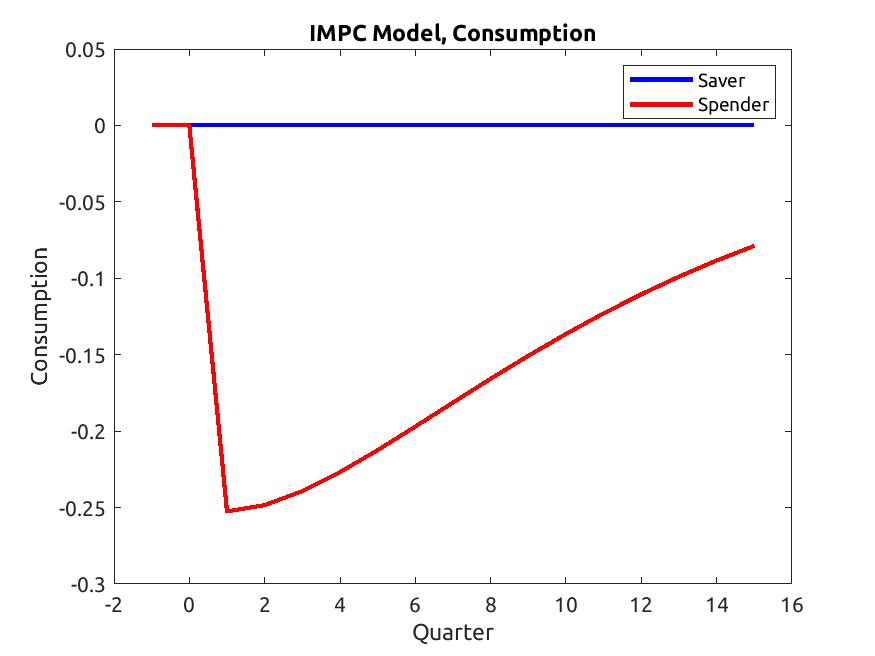
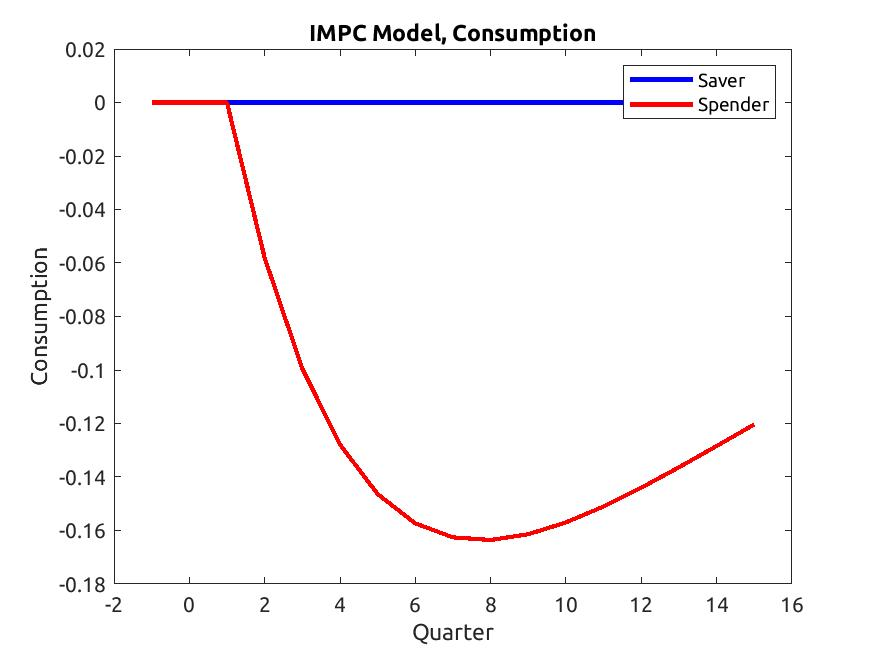
IMPC results parameter change

diff --git a/Code/Dynare/IntertemporalMPCBased/IMPCModel_static.m b/Code/Dynare/IntertemporalMPCBased/IMPCModel_static.m
@@ -32,6 +32,7 @@ residual = zeros( 17, 1);
 %
 
 T41 = 1/params(5);
+T53 = (1-params(4))/4000;
 lhs =y(1);
 rhs =y(11);
 residual(1)= lhs-rhs;
@@ -54,7 +55,7 @@ lhs =y(16);
 rhs =T41*(y(16)+y(2)+y(1)*params(2));
 residual(7)= lhs-rhs;
 lhs =y(17);
-rhs =(1-params(4))*(y(17)+y(3)-y(1)*params(2));
+rhs =T53*(y(17)+y(3)-y(1)*params(2));
 residual(8)= lhs-rhs;
 lhs =y(4);
 rhs =params(3)*(y(7)+y(16));
@@ -111,9 +112,9 @@ if nargout >= 2,
   g1(7,1)=(-(T41*params(2)));
   g1(7,2)=(-T41);
   g1(7,16)=1-T41;
-  g1(8,1)=(-((1-params(4))*(-params(2))));
-  g1(8,3)=(-(1-params(4)));
-  g1(8,17)=1-(1-params(4));
+  g1(8,1)=(-(T53*(-params(2))));
+  g1(8,3)=(-T53);
+  g1(8,17)=1-T53;
   g1(9,4)=1;
   g1(9,7)=(-params(3));
   g1(9,16)=(-params(3));

diff --git a/Code/Dynare/IntertemporalMPCBased/IMPCModel_dynamic.m b/Code/Dynare/IntertemporalMPCBased/IMPCModel_dynamic.m
@@ -56,7 +56,7 @@ lhs =y(21);
 rhs =1/params(5)*(y(23)+y(6)*params(2)+y(26));
 residual(7)= lhs-rhs;
 lhs =y(22);
-rhs =(1-params(4))*(y(24)-y(6)*params(2)+y(27));
+rhs =(1-params(4))/4000*(y(24)-y(6)*params(2)+y(27));
 residual(8)= lhs-rhs;
 lhs =y(9);
 rhs =params(3)*(y(12)+y(21));
@@ -113,10 +113,10 @@ if nargout >= 2,
   g1(7,23)=(-(1/params(5)));
   g1(7,21)=1;
   g1(7,26)=(-(1/params(5)));
-  g1(8,6)=(-((1-params(4))*(-params(2))));
-  g1(8,24)=(-(1-params(4)));
+  g1(8,6)=(-((1-params(4))/4000*(-params(2))));
+  g1(8,24)=(-((1-params(4))/4000));
   g1(8,22)=1;
-  g1(8,27)=(-(1-params(4)));
+  g1(8,27)=(-((1-params(4))/4000));
   g1(9,9)=1;
   g1(9,12)=(-params(3));
   g1(9,21)=(-params(3));

diff --git a/Code/Dynare/IntertemporalMPCBased/RunIMPC.m b/Code/Dynare/IntertemporalMPCBased/RunIMPC.m
@@ -26,7 +26,7 @@ dynare BUModel.mod noclearall nograph;
 BU_IRFs_attn = oo_.irfs;
 
 max_T = 15;
-Model = "BU";
+Model = "IMPC";
 if Model=="SS"
     IRFs = SS_IRFs;
     Model_Name = "Saver Spender";
